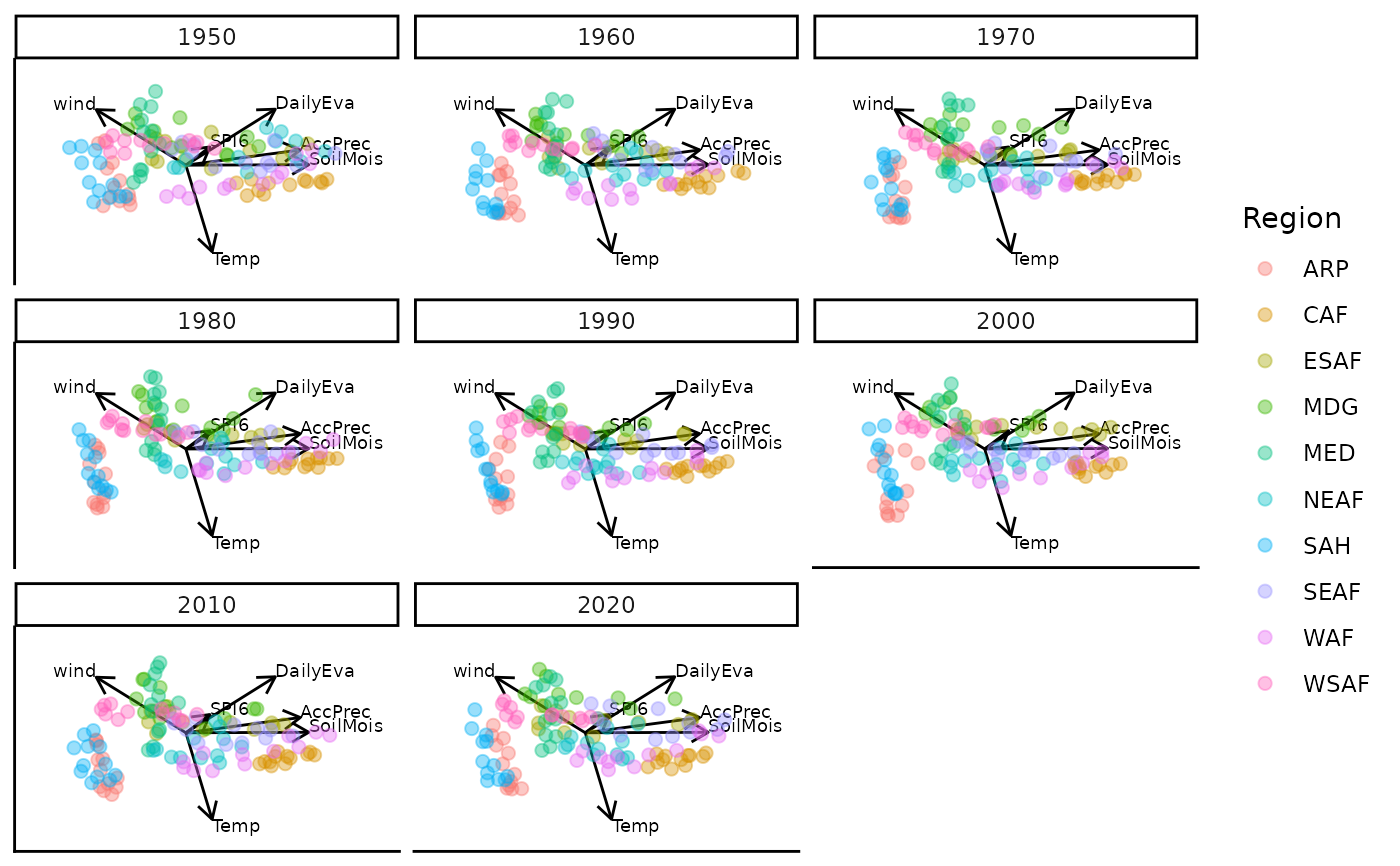
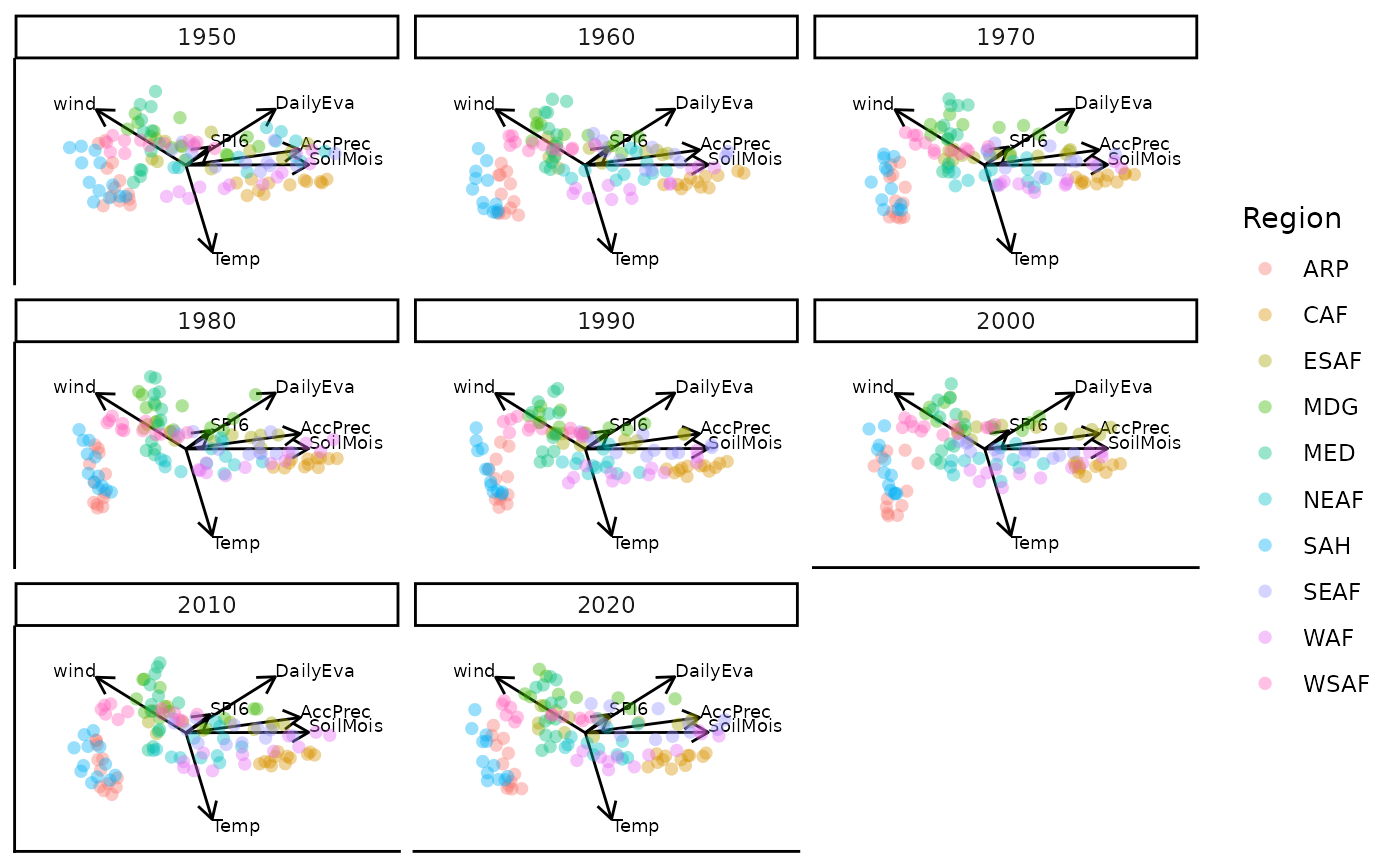
Deploying to gh-pages from @ MuViSU/moveEZ@917d443c6f7e2b0585cd73badfb84f4bcb7452dc 🚀

diff --git a/reference/moveplot.html b/reference/moveplot.html
@@ -123,7 +123,7 @@
 <span class="r-in"><span></span></span>
 <span class="r-in"><span><span class="co"># Specifying plotting characters for grouping variable in biplotEZ</span></span></span>
 <span class="r-in"><span><span class="va">bp</span> <span class="op">&lt;-</span> <span class="fu">biplotEZ</span><span class="fu">::</span><span class="fu"><a href="https://rdrr.io/pkg/biplotEZ/man/biplot.html" class="external-link">biplot</a></span><span class="op">(</span><span class="va">Africa_climate</span>, scaled <span class="op">=</span> <span class="cn">TRUE</span>, group.aes <span class="op">=</span> <span class="va">Africa_climate</span><span class="op">$</span><span class="va">Region</span><span class="op">)</span> <span class="op">|&gt;</span></span></span>
-<span class="r-in"><span><span class="fu">biplotEZ</span><span class="fu">::</span><span class="fu"><a href="https://rdrr.io/pkg/biplotEZ/man/PCA.html" class="external-link">PCA</a></span><span class="op">(</span><span class="op">)</span> <span class="op">|&gt;</span> <span class="fu">biplotEZ</span><span class="fu">::</span><span class="fu"><a href="https://rdrr.io/pkg/biplotEZ/man/samples.html" class="external-link">samples</a></span><span class="op">(</span>pch <span class="op">=</span> <span class="fu"><a href="https://rdrr.io/r/base/c.html" class="external-link">c</a></span><span class="op">(</span><span class="fl">19</span>,<span class="fl">21</span>,<span class="fl">3</span><span class="op">)</span><span class="op">)</span></span></span>
+<span class="r-in"><span><span class="fu">biplotEZ</span><span class="fu">::</span><span class="fu"><a href="https://rdrr.io/pkg/biplotEZ/man/PCA.html" class="external-link">PCA</a></span><span class="op">(</span><span class="op">)</span> <span class="op">|&gt;</span> <span class="fu">biplotEZ</span><span class="fu">::</span><span class="fu"><a href="https://rdrr.io/pkg/biplotEZ/man/samples.html" class="external-link">samples</a></span><span class="op">(</span>pch <span class="op">=</span> <span class="fu"><a href="https://rdrr.io/r/base/c.html" class="external-link">c</a></span><span class="op">(</span><span class="fl">19</span>, <span class="fl">21</span>, <span class="fl">3</span><span class="op">)</span><span class="op">)</span></span></span>
 <span class="r-in"><span><span class="va">bp</span> <span class="op">|&gt;</span> <span class="fu">moveplot</span><span class="op">(</span>time.var <span class="op">=</span> <span class="st">"Year"</span>, group.var <span class="op">=</span> <span class="st">"Region"</span>, hulls <span class="op">=</span> <span class="cn">FALSE</span>, move <span class="op">=</span> <span class="cn">FALSE</span><span class="op">)</span></span></span>
 <span class="r-plt img"><img src="moveplot-4.png" alt="" width="700" height="433"></span>
 <span class="r-out co"><span class="r-pr">#&gt;</span> Object of class biplot, based on 960 samples and 9 variables.</span>

diff --git a/reference/moveplot.md b/reference/moveplot.md
@@ -88,7 +88,7 @@ bp |> moveplot(time.var = "Year", group.var = "Region", hulls = TRUE, move = FAL
 
 # Specifying plotting characters for grouping variable in biplotEZ
 bp <- biplotEZ::biplot(Africa_climate, scaled = TRUE, group.aes = Africa_climate$Region) |>
-biplotEZ::PCA() |> biplotEZ::samples(pch = c(19,21,3))
+biplotEZ::PCA() |> biplotEZ::samples(pch = c(19, 21, 3))
 bp |> moveplot(time.var = "Year", group.var = "Region", hulls = FALSE, move = FALSE)
 
 #> Object of class biplot, based on 960 samples and 9 variables.